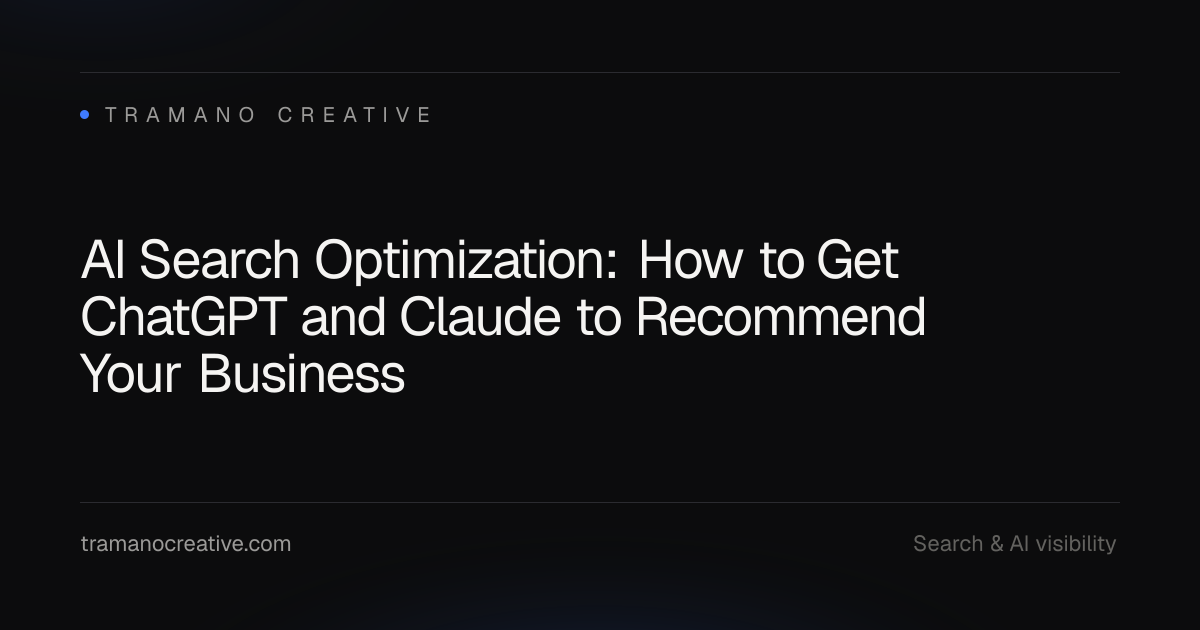
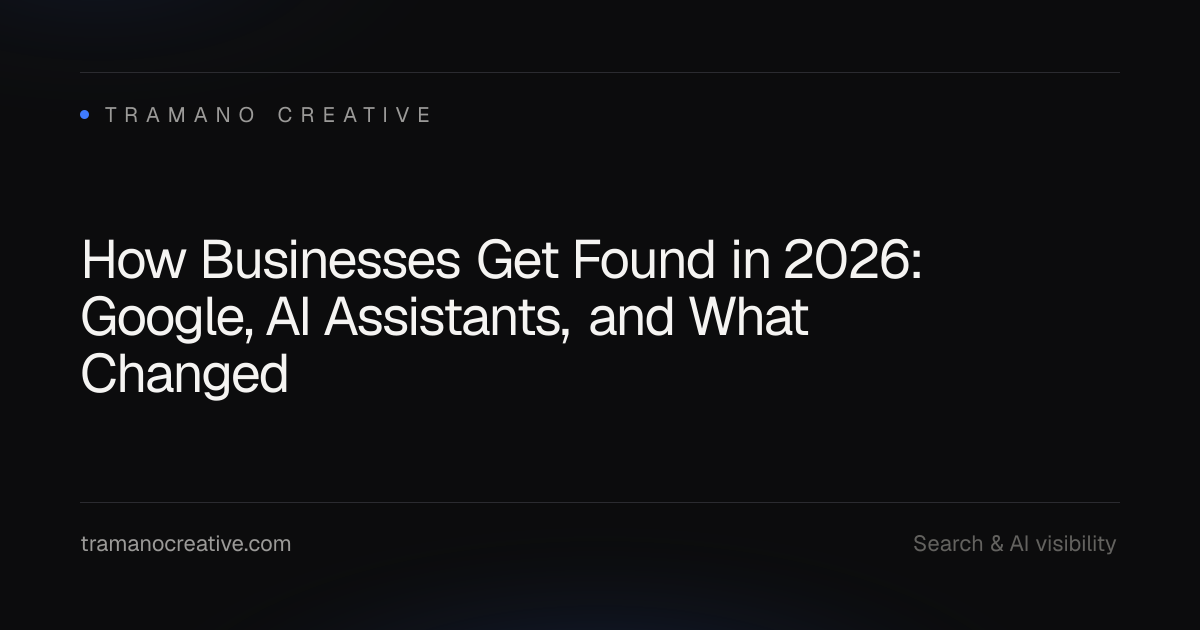
Expand the three blog pillars from 2-minute reads to real guides
The three posts were 430–520 words each — a two-minute read that ranks for
nothing and gives an answer engine four sentences to work with. They are now
1,900–2,150 words, 9–10 minute reads, with every H2 phrased as an actual
question so each section can be lifted as an answer.

Cost pillar (2,142 words) adds why quotes for the same brief vary five times,
what $500 actually buys, the costs nobody puts in a quote, fixed price versus
hourly, how long it should take, what to ask before hiring anyone, and what is
different about buying a website in Lebanon.

Speed pillar (1,909 words) adds what each Core Web Vital actually measures,
how to read a PageSpeed report and why lab and field data disagree, why this
matters more here than in markets with better infrastructure, how fast is fast
enough — including the point that past a certain speed you are buying decimal
places — and how to tell a fixable site from one worth rebuilding.

Search pillar (1,921 words) retitled to "How Businesses Get Found in 2026" so
it covers Google and assistants rather than only the AI angle. Adds where
customers actually look now, what changed about Google itself, whether to block
AI crawlers, why the FAQ page is suddenly the most valuable page you own, how
this differs in Lebanon, and how to tell if any of it is working. States
plainly that FAQPage schema no longer produces rich results outside government
and health domains — worth saying because agencies still sell it on that
promise.
[…]

Changed region(s): [[0.0617, 0.3619, 0.7708, 0.6333]]

diff --git a/CONTENT-PLAN.md b/CONTENT-PLAN.md
@@ -1,7 +1,24 @@
 # Content plan — blog clusters and the Beirut page
 
-**Status: outlines only. Nothing here has been written.** Review and cut before
-anything gets drafted.
+**Status: the three pillars are written. The twelve supports are still
+outlines.** Review and cut the supports before anything gets drafted.
+
+**Done:**
+- Cost pillar — expanded to 2,142 words, 12 question-form H2s, 4 FAQs.
+- Speed pillar — 1,909 words, 10 H2s, 5 FAQs. Includes the disclosure that
+  this site's own LCP was 2.3s until it was fixed.
+- Search pillar — 1,921 words, 11 H2s, 4 FAQs. Retitled to *How Businesses Get
+  Found in 2026* so it covers Google and assistants both.
+- `/web-design-beirut/` — built, not outlined. 12 FAQs, facts block, linked
+  from the footer, `/services/`, the sitemap and three sibling pages.
+
+**One decision made during the write-up:** the search pillar keeps its
+`ai-search-optimization-for-businesses` slug despite the retitle. The site is
+a static export on GitHub Pages, which has no redirect mechanism, so renaming
+the file would 404 a URL that is already in the sitemap and possibly indexed.
+A slug that no longer matches its title is a mild smell; a dead URL on a
+one-month-old domain is worse. Support 3.3 below reuses the AI-specific angle
+under its own slug.
 
 Three topic clusters, each a substantial pillar with supporting posts linking
 into it. The three existing posts become the three pillars — they're currently
